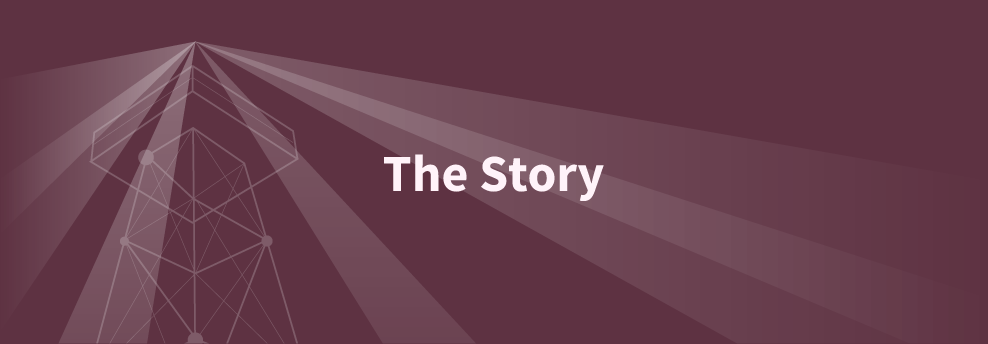
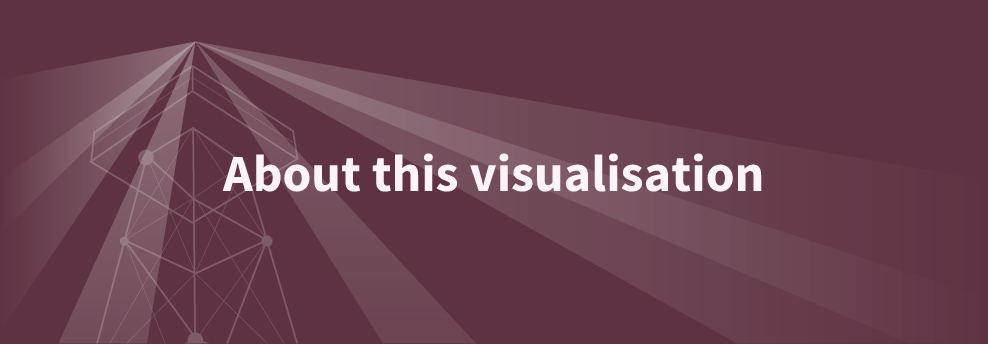
Image replaced, content added

Changed region(s): [[0.2126, 0.436, 0.7895, 0.5814]]

diff --git a/index.html b/index.html
@@ -307,6 +307,7 @@
       bottom: 25px;
       right: 20px;
       padding:15px 15px 10px 15px;
+      width: 200px;
     }
     .social-button{
       margin-right: 15px;
@@ -459,15 +460,21 @@
                   <img style='width:20px; height:20px;' src='images/bug.svg'/>&nbsp;<span style='color:#a8a8a8;'>Found incorrect information?</span>&nbsp;<a target='_blank' href='https://docs.google.com/forms/d/1XsPACAHckWwQqUd0M0I4Ld3X7Ssvor8PQABfcyxWWPI/viewform'>Let us know</a>
                 </div>
               {{else}}
-                <img src='images/head.png' style='width:340px;'/>
-                <h6 style='color:#5E3242;'><br/>'Cyber-security' is a phrase that one encounters often in government-speak. But the phrase is used to describe a whole range of efforts and governance mechanisms, so it muddles more than it clarifies. This interactive visualisation maps government bodies at the central level that are engaged in functions of 'cyber-security'.
-                <br/><br/>The issues that these bodies deal with have broadly been grouped into:
-                <br/><br/><b>Infrastructure</b> <br/>The setting up and maintenance of 'information and communication technology' infrastructure for the government
-                <br/><br/><b>Critical Information Infrastructure Protection</b> <br/>Protection of critical information infrastructure like the networks of power grids and banks
-                <br/><br/><b>Global Internet Governance</b> <br/>Representing the Indian government in global internet governance processes, sharing best practices about security and enhancing cooperation with other countries for better law enforcement
-                <br/><br/><b>Research &amp; Development</b> <br/>Conducting research and development to improve indigenous technologies and build capacity
-                <br/><br/><b>Surveillance</b> <br/>As part of security efforts, intelligence agencies not only look out for crimes that are directly related to the interference and disruption of networks, but also criminal activity that involves communication over networks. This includes traditional intelligence agencies as well as specialised agencies dedicated to making networks legible and easy to surveil
-                7 ministries with their respective departments and 55 institutions have been mapped</h6>
+                <img src='images/head2.png' style='width:340px;'/>
+                <h6 style='color:#5E3242;padding-top:15px'>
+                How technologies are perceived and to what ends they are used, at a government-level, is important in shaping its uptake and building trust and confidence for its use. Across the world, governments are getting their feet wet in evolving an understanding of something called &lsquo;cybersecurity&rsquo;. Successive Indian governments have set up institutional mechanisms for this, with guidance from the National Cyber Security Policy of 2013, section 2 (1) (nb) of the Information Technology Amendment Act 2008, among others. With this tool, we try to give an overview of the various institutions in the central government of India which are involved in functions of cybersecurity. (The bodies shown are not of similar importance or even effectiveness. However, they all play a part in understanding how the government treats digital technologies at a time when uptake of information technology is seen as crucial for developmental goals, security threats are complex and granular data on citizens is possible for States to acquire.
+                  <br/><br/>A little more information about the bodies:
+<ul>
+<br/><li>Dedicated centers are set up for keeping critical networks like power grids secure from interference</li>
+<br/><li>special bodies are delegated for the maintenance of the government&lsquo;s digital resources and offerings like official websites and e-governance services</li>
+<br/><li>Both civilian and military intelligence agencies seek to manage security risks by monitoring information and communication networks, and expect to be prepared to prevent threats to national security. For those looking to upgrade their ways, &lsquo;cyber&rsquo; is the prefix of choice. Some specialised agencies seek to comb social media networks to gain intelligence insights. Some of these bodies have been set up through Acts of legislature while others have been set up merely through executive orders
+some mechanisms are set up to create and maintain databases about citizens that help in surveillance, to be shared with other government bodies</li>
+<br/><li>Efforts to enhance indigenous resource capacity- human and otherwise, are made by setting up research and development bodies. These efforts seeks to make the country self sufficient in its security needs by developing hardware, software and protocol standards. Some of these bodies are set up to be autonomous societies under the Societies Act, and some of them are set up as Section 25 companies under the Companies Act.</li>
+<br/><li>On the global front, governments have to represent national interests in negotiations about development of internet-related policies and ownership of critical internet resources. They also seek out cooperation with other countries on law enforcement for trans-national crimes and exchange notes on best practices.</li>
+</ul>
+There is a lack of uniformity in the level of detail about each body, and this is because primary source information about many of these bodies are not easily available, and several of them are exempt from disclosing information about themselves under the Right to Information Act.
+<br/><br/>The dataset is available at <b>this link</b>. It is licensed under Creative Commons BY 3.0.
+                </h6>
                 <hr style='margin-bottom: 0;'/>
                 <div id='credits'>
                   <h5>Credits</h5>
